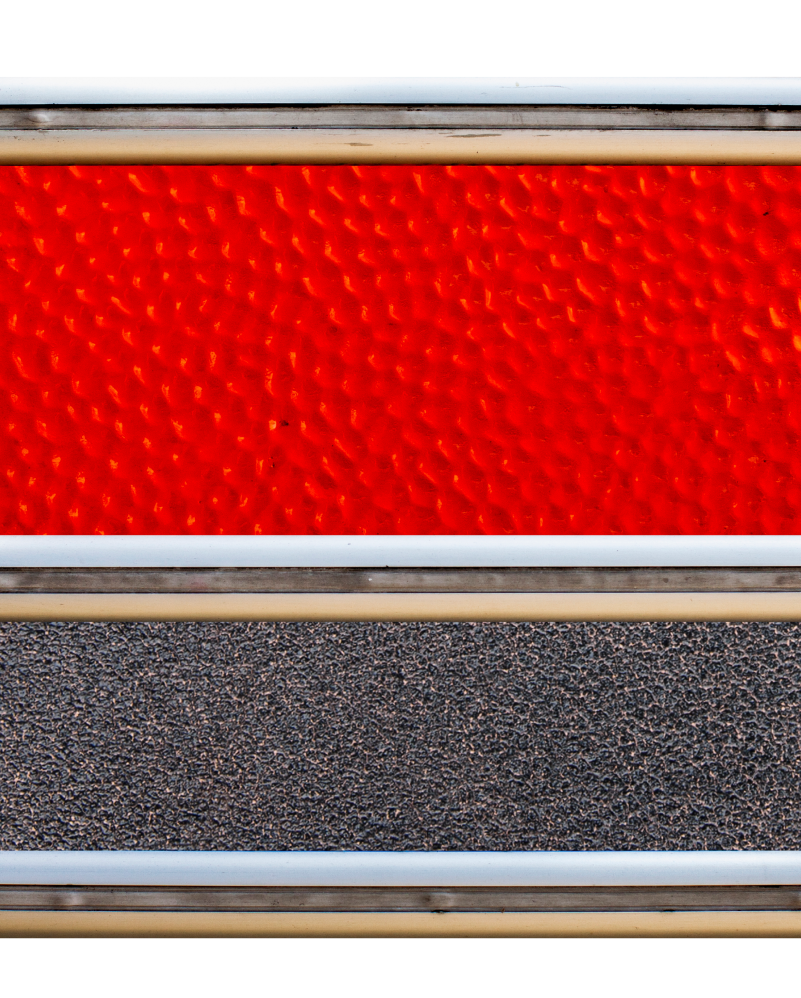
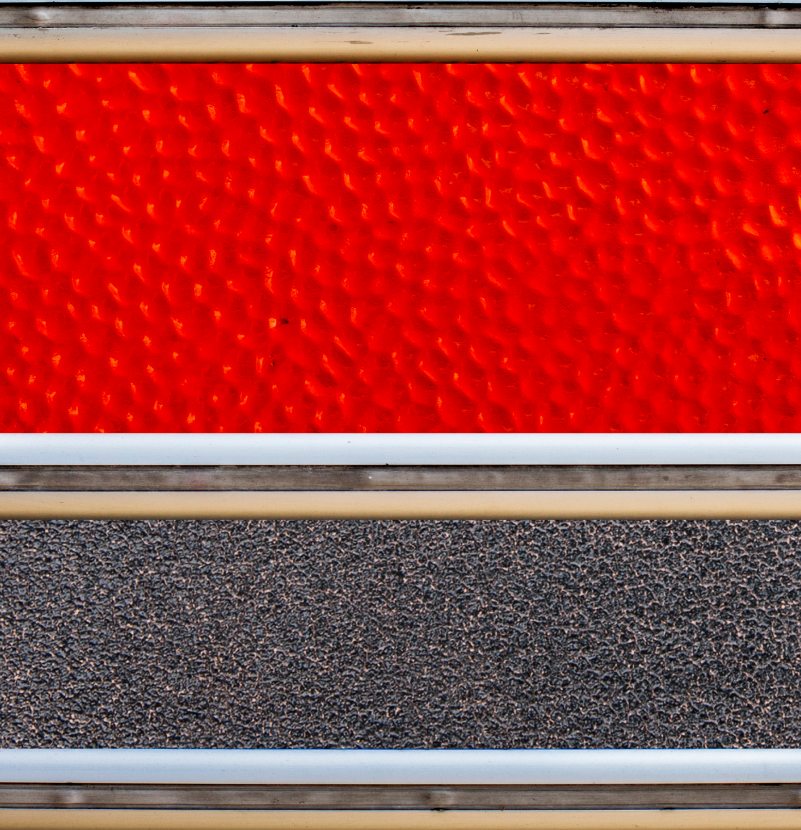
feature change Color for twontwocolor

diff --git a/public/aceweb/assets/ace/gosford1.css b/public/aceweb/assets/ace/gosford1.css
@@ -7,6 +7,7 @@ html {
 }
 
 .img-wraping{
+    position: relative;
     margin: 35px 0px;
     width: 100%;
     height: 400px;
@@ -22,6 +23,14 @@ html {
     vertical-align: middle;
 }
 .leather-pattern{
+    mix-blend-mode: color;
+    /* background-color: #0088cc; */
+}
+.twon-color1{
+    mix-blend-mode: color;
+    /* background-color: #0088cc; */
+}
+.twon-color2{
     mix-blend-mode: color;
     /* background-color: #0088cc; */
 }
@@ -9286,6 +9295,21 @@ footer img {
         font-size: 26px;
         line-height: 30px;
     }
+}
+
+.twon-color1{
+    left: 0px;
+    top: 30px;
+    width: 100%;
+    height: 151px;
+    position: absolute;
+}
+.twon-color2 {
+    left: 0px;
+    bottom: 39px;
+    width: 100%;
+    height: 151px;
+    position: absolute;
 }
 
 

diff --git a/public/go_system/js/twontwocolor.js b/public/go_system/js/twontwocolor.js
@@ -1,0 +1,21 @@
+let color1 = document.querySelector('.twon-color1');
+let color   =  document.querySelectorAll('.card-coloroption-one');
+
+        for (let i = 0; i < color.length; i++) {
+            color[i].addEventListener('click',()=>{
+                let coloroption = window.getComputedStyle(color[i]).backgroundColor;
+                color1.style.background = coloroption;
+            })
+
+        }
+
+
+let color2 = document.querySelector('.twon-color2');
+let colors   =  document.querySelectorAll('.card-coloroption-two');
+for (let i = 0; i < colors.length; i++) {
+    colors[i].addEventListener('click',()=>{
+        let coloroption = window.getComputedStyle(colors[i]).backgroundColor;
+        color2.style.background = coloroption;
+    })
+
+}

diff --git a/public/aceweb/assets/gosford/gosford.css b/public/aceweb/assets/gosford/gosford.css
@@ -34,6 +34,27 @@ input[type=file]::file-selector-button {
     margin: 5px;
     height: 50px;
 }
+
+.card-coloroption:hover {
+    cursor: pointer;
+}
+
+.card-coloroption-one {
+    width: 100%;
+    margin: 5px;
+    height: 50px;
+}
+.card-coloroption-one:hover {
+    cursor: pointer;
+}
+.card-coloroption-two {
+    width: 100%;
+    margin: 5px;
+    height: 50px;
+}
+.card-coloroption-two:hover {
+    cursor: pointer;
+}
 .wrap-quantity{
     border: groove;
     border-radius: 11px;

diff --git a/resources/views/gosford/frontend/twotowncolor/detail.blade.php b/resources/views/gosford/frontend/twotowncolor/detail.blade.php
@@ -5,7 +5,6 @@
 @section('content')
     <main>
         <section class="ace-investor">
-
             <div class="col-md-12">
                 <div class="banner-static">
                     <img class="img-responsive-banner" src="/public/aceweb/assets/img/contact-banner.png"
@@ -13,7 +12,6 @@
                 </div>
             </div>
         </section>
-
         <section class="gtp-anouncements" style="background-color: rgb(247, 246, 246);">
             <div class="content-ace">
                 <div class="wrap-content">
@@ -33,11 +31,12 @@
                                             <div class="slider-product">
                                                 <div style="display: flex;flex-direction: column; padding: 20px;">
                                                     <p>A012-Nappa Leather</p>
-                                                    <img style="height: 400px;" class="img-responsive"
-                                                        src="/public/go_system/images/twotowncolordetail.png" alt="">
-
-
-                                                </div>
+                                                    <div class="img-wraping">
+                                                        <img style="height: 400px;"src="/public/go_system/images/twotowncolordetail.png" alt="">
+                                                        <img style="height: 180px;" class="twon-color1" src="/public/go_system/images/twoncolor1.png" alt="">
+                                                        <img style="height: 112px;" class="twon-color2" src="/public/go_system/images/twoncolor2.png" alt="">
+                                                    </div>
+                                                    </div>
                                             </div>
 
                                         </div>
@@ -73,27 +72,27 @@
                                                     Step-1 | Color Option
                                                     <!--COLOR OPTION-->
                                                     <div style="display: flex;flex-direction: row;">
-                                                        <div class="card-coloroption" style="background-color: #452E34;">
+                                                        <div class="card-coloroption-one" style="background-color: #452E34;">
                                                         </div>
-                                                        <div class="card-coloroption" style="background-color: #9FC4CE;">
+                                                        <div class="card-coloroption-one" style="background-color: #9FC4CE;">
                                                         </div>
-                                                        <div class="card-coloroption" style="background-color: #442452;">
+                                                        <div class="card-coloroption-one" style="background-color: #442452;">
                                                         </div>
-                                                        <div class="card-coloroption" style="background-color: #8F5153;">
+                                                        <div class="card-coloroption-one" style="background-color: #8F5153;">
                                                         </div>
-                                                        <div class="card-coloroption" style="background-color: #E35A7E;">
+                                                        <div class="card-coloroption-one" style="background-color: #E35A7E;">
                                                         </div>
                                                     </div>
                                                     <div style="display: flex;flex-direction: row;">
-                                                        <div class="card-coloroption" style="background-color: #7C6F3B;">
+                                                        <div class="card-coloroption-one" style="background-color: #7C6F3B;">
                                                         </div>
-                                                        <div class="card-coloroption" style="background-color: #D4C0AD;">
+                                                        <div class="card-coloroption-one" style="background-color: #D4C0AD;">
                                                         </div>
-                                                        <div class="card-coloroption" style="background-color: #484343;">
+                                                        <div class="card-coloroption-one" style="background-color: #484343;">
                                                         </div>
-                                                        <div class="card-coloroption" style="background-color: #272526;">
+                                                        <div class="card-coloroption-one" style="background-color: #272526;">
                                                         </div>
-                                                        <div class="card-coloroption" style="background-color: #AAA29C;">
+                                                        <div class="card-coloroption-one" style="background-color: #AAA29C;">
                                                         </div>
                                                     </div>
                                                     <!--END COLOR OPTION-->
@@ -102,27 +101,27 @@
                                                     Step-2 | Color Option
 
                                                     <div style="display: flex;flex-direction: row;">
-                                                        <div class="card-coloroption" style="background-color: #452E34;">
+                                                        <div class="card-coloroption-two" style="background-color: #452E34;">
                                                         </div>
-                                                        <div class="card-coloroption" style="background-color: #9FC4CE;">
+                                                        <div class="card-coloroption-two" style="background-color: #9FC4CE;">
                                                         </div>
-                                                        <div class="card-coloroption" style="background-color: #442452;">
+                                                        <div class="card-coloroption-two" style="background-color: #442452;">
                                                         </div>
-                                                        <div class="card-coloroption" style="background-color: #8F5153;">
+                                                        <div class="card-coloroption-two" style="background-color: #8F5153;">
                                                         </div>
-                                                        <div class="card-coloroption" style="background-color: #E35A7E;">
+                                                        <div class="card-coloroption-two" style="background-color: #E35A7E;">
                                                         </div>
                                                     </div>
                                                     <div style="display: flex;flex-direction: row;">
-                                                        <div class="card-coloroption" style="background-color: #7C6F3B;">
+                                                        <div class="card-coloroption-two" style="background-color: #7C6F3B;">
                                                         </div>
-                                                        <div class="card-coloroption" style="background-color: #D4C0AD;">
+                                                        <div class="card-coloroption-two" style="background-color: #D4C0AD;">
                                                         </div>
-                                                        <div class="card-coloroption" style="background-color: #484343;">
+                                                        <div class="card-coloroption-two" style="background-color: #484343;">
                                                         </div>
-                                                        <div class="card-coloroption" style="background-color: #272526;">
+                                                        <div class="card-coloroption-two" style="background-color: #272526;">
                                                         </div>
-                                                        <div class="card-coloroption" style="background-color: #AAA29C;">
+                                                        <div class="card-coloroption-two" style="background-color: #AAA29C;">
                                                         </div>
                                                     </div>
                                                     <!--END COLOR 2 OPTION-->
@@ -169,14 +168,7 @@
                     </div>
                 </div>
             </div>
-
-
         </section>
-        <!-- <div class="wa-floating-button" onclick="openWhatsApp()">
-                <span class="whatsapp-icon"><i class="fa fa-phone"></i></span>
-            </div> -->
-
     </main>
-
-
+    <script src="/public/go_system/js/twontwocolor.js"></script>
 @endsection
